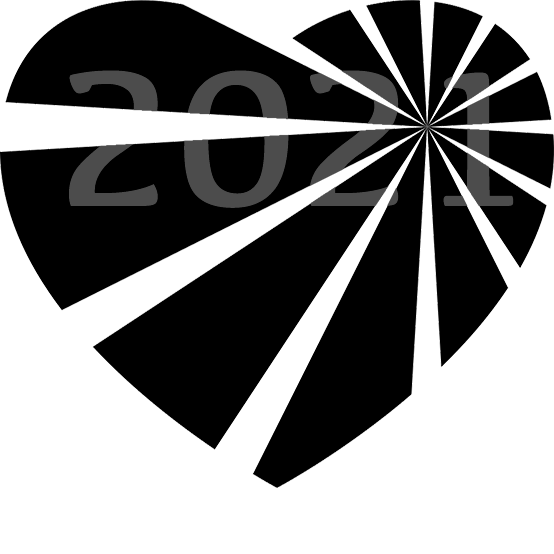
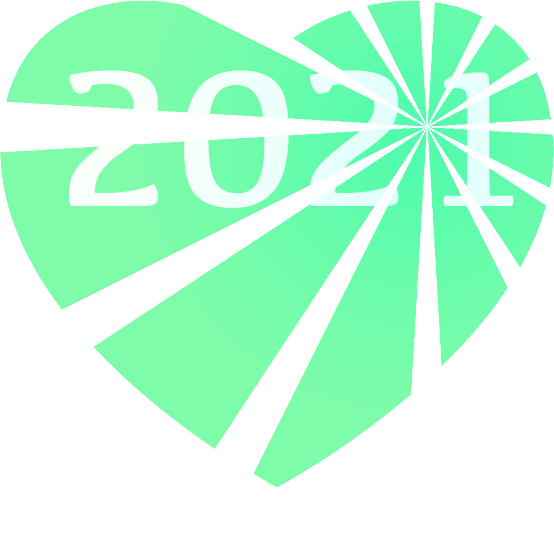
Kleurtje & typo

diff --git a/src/App.svelte b/src/App.svelte
@@ -43,7 +43,7 @@
   <h2>Geen vuurwerkshow maar een lichtshow!</h2>
   <div class="main-text">
     <p>
-      Een oproep aan een alle theaters, discotheken, DJ's, evenement
+      Een oproep aan alle theaters, discotheken, DJ's, evenement
       organisaties en enthousiastelingen!
     </p>
     <p>
